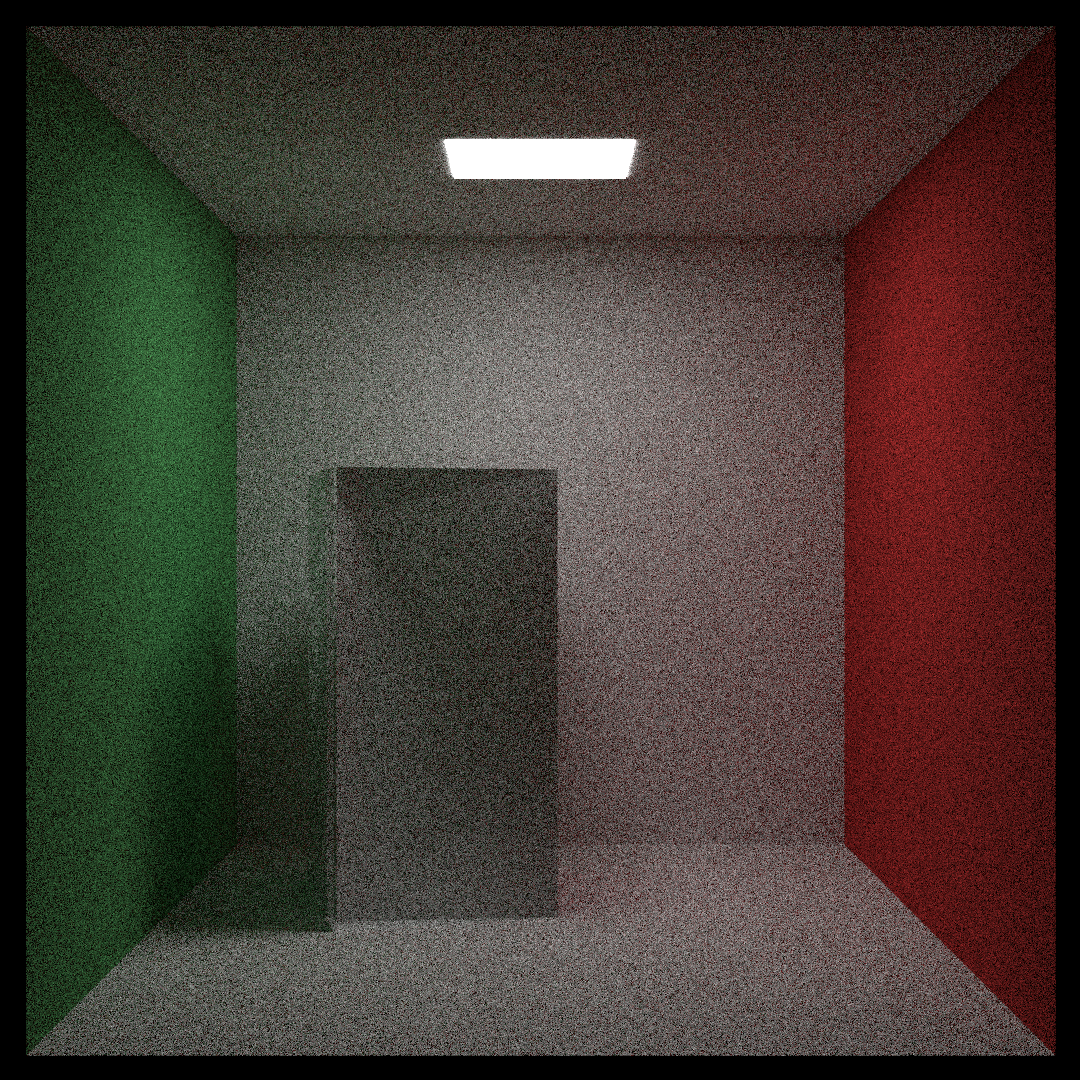
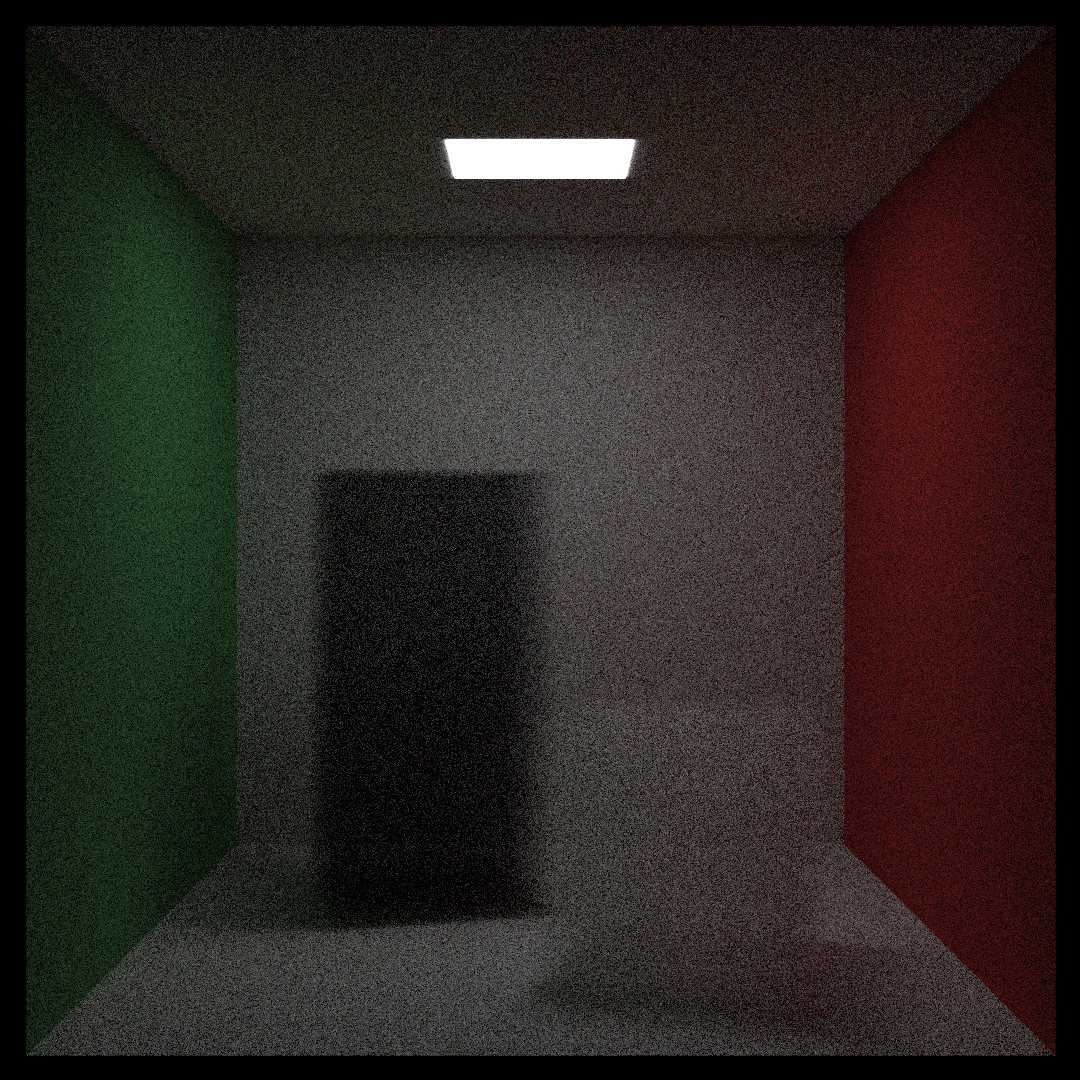
fixed smoke (finally)

diff --git a/src/bin/render.rs b/src/bin/render.rs
@@ -302,12 +302,6 @@ fn cornell_box<'a>(options: &mut RenderOptions) -> HitableListBuilder<'a> {
         ),
     ));
 
-    world.add_unrolled(make_box(
-        Point3::new(265.0, 0.0, 295.0),
-        Point3::new(430.0, 330.0, 460.0),
-        white,
-    ));
-
     options.vertical_fov = 40.0;
     options.lookfrom = Point3::new(278.0, 278.0, -800.0);
     options.lookat = Point3::new(278.0, 278.0, 0.0);
@@ -325,7 +319,7 @@ fn cornell_box_smoke<'a>(options: &mut RenderOptions) -> HitableListBuilder<'a> 
 
     let red = Lambertian::new(SolidTexture::new(Color::new(0.65, 0.05, 0.05)));
     let green = Lambertian::new(SolidTexture::new(Color::new(0.12, 0.45, 0.15)));
-    let light = DiffuseLight::new(SolidTexture::new(Color::new(15.0, 15.0, 15.0)));
+    let light = DiffuseLight::new(SolidTexture::new(Color::new(7.0, 7.0, 7.0)));
     let white = Lambertian::new(SolidTexture::new(Color::new(0.73, 0.73, 0.73)));
     let smoke = Dielectric::new(1.5);
 
@@ -366,7 +360,7 @@ fn cornell_box_smoke<'a>(options: &mut RenderOptions) -> HitableListBuilder<'a> 
         white.clone(),
     ));
 
-    world.add(Translate::new_owned(
+    let smoke_box_1 = Translate::new_owned(
         Vec3::new(265.0, 0.0, 295.0),
         Rotate::new_owned(
             Axis::Y,
@@ -378,9 +372,15 @@ fn cornell_box_smoke<'a>(options: &mut RenderOptions) -> HitableListBuilder<'a> 
             )
             .into(),
         ),
+    );
+
+    world.add(ConstantMedium::new_owned(
+        0.01,
+        smoke_box_1,
+        Isotropic::new(Color::black()),
     ));
 
-    let smoke_box = Translate::new_owned(
+    let smoke_box_2 = Translate::new_owned(
         Vec3::new(130.0, 1.0, 65.0),
         Rotate::new_owned(
             Axis::Y,
@@ -395,15 +395,9 @@ fn cornell_box_smoke<'a>(options: &mut RenderOptions) -> HitableListBuilder<'a> 
     );
 
     world.add(ConstantMedium::new_owned(
-        0.05,
-        smoke_box,
-        Isotropic::new(Color::new(0.0, 0.0, 0.0)),
-    ));
-
-    world.add_unrolled(make_box(
-        Point3::new(265.0, 0.0, 295.0),
-        Point3::new(430.0, 330.0, 460.0),
-        white,
+        0.01,
+        smoke_box_2,
+        Isotropic::new(Color::white()),
     ));
 
     options.vertical_fov = 40.0;

diff --git a/kernels/src/hitables/constant_medium.rs b/kernels/src/hitables/constant_medium.rs
@@ -66,7 +66,7 @@ impl ConstantMedium<'_> {
         if hit_distance > distance_inside_boundary {
             return None;
         }
-        let t = start_t + hit_distance;
+        let t = start_t + hit_distance / ray.direction.length();
         let normal = Vec3::new(1.0, 0.0, 0.0); // arbitrary
         let (u, v) = (0.0, 0.0); // arbitrary
         Some(HitRecord {
@@ -95,8 +95,6 @@ impl RecursiveHitable for ConstantMedium<'_> {
             if !self.boundingbox().hit(ray, range) {
                 return None;
             }
-            //TD: fix this shit
-            return None;
 
             extra_stack
                 .push::<(Range<Real>, Option<HitRecord<'a>>)>((range.clone(), hit_record.take()));
@@ -105,7 +103,7 @@ impl RecursiveHitable for ConstantMedium<'_> {
             if let Some(first_hit) = hit_record.take() {
                 if first_hit.is_front_face {
                     // get second hit for back face
-                    *range = (1e-3 + first_hit.t)..range.end;
+                    *range = (1e-3 + first_hit.t)..Real::INFINITY;
                     return Some((&self.boundary, 2));
                 } else {
                     *hit_record = self.make_record(&ray, range.start, first_hit.t, rng);
@@ -116,7 +114,8 @@ impl RecursiveHitable for ConstantMedium<'_> {
             let end_t = if let Some(second_hit) = hit_record.take() {
                 second_hit.t
             } else {
-                range.end
+                // no second hit, this means we are really close to the boundary
+                start_t
             };
             *hit_record = self.make_record(&ray, start_t, end_t, rng);
         } else {
